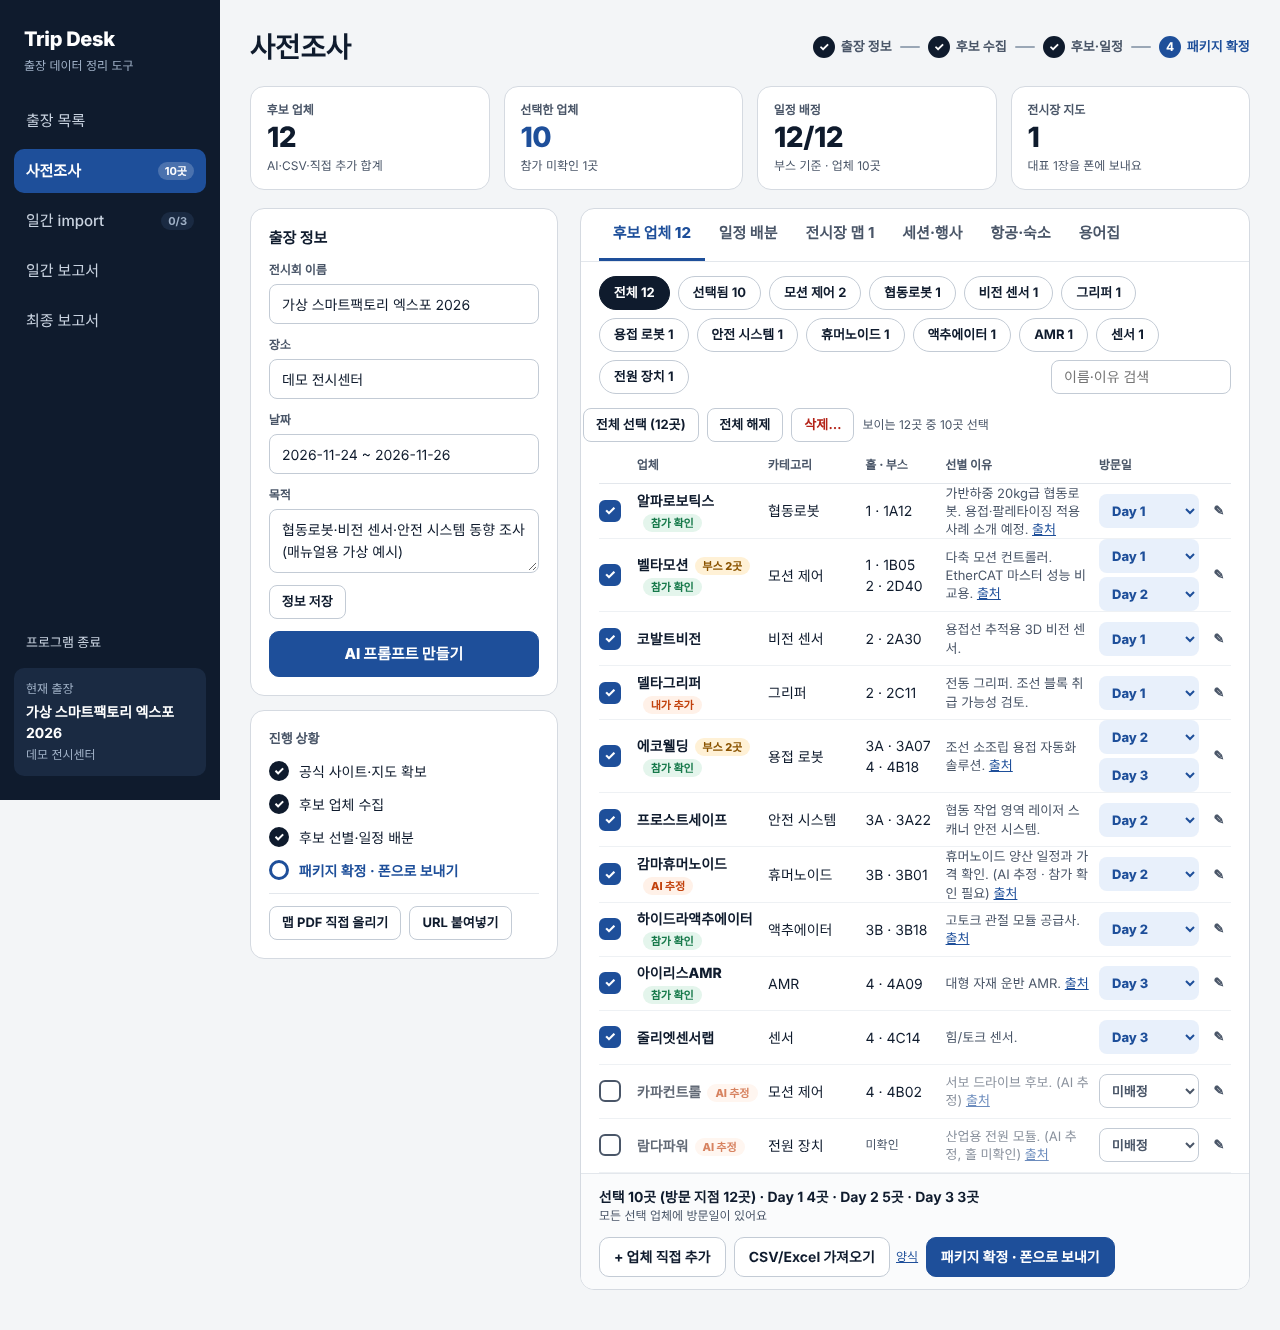
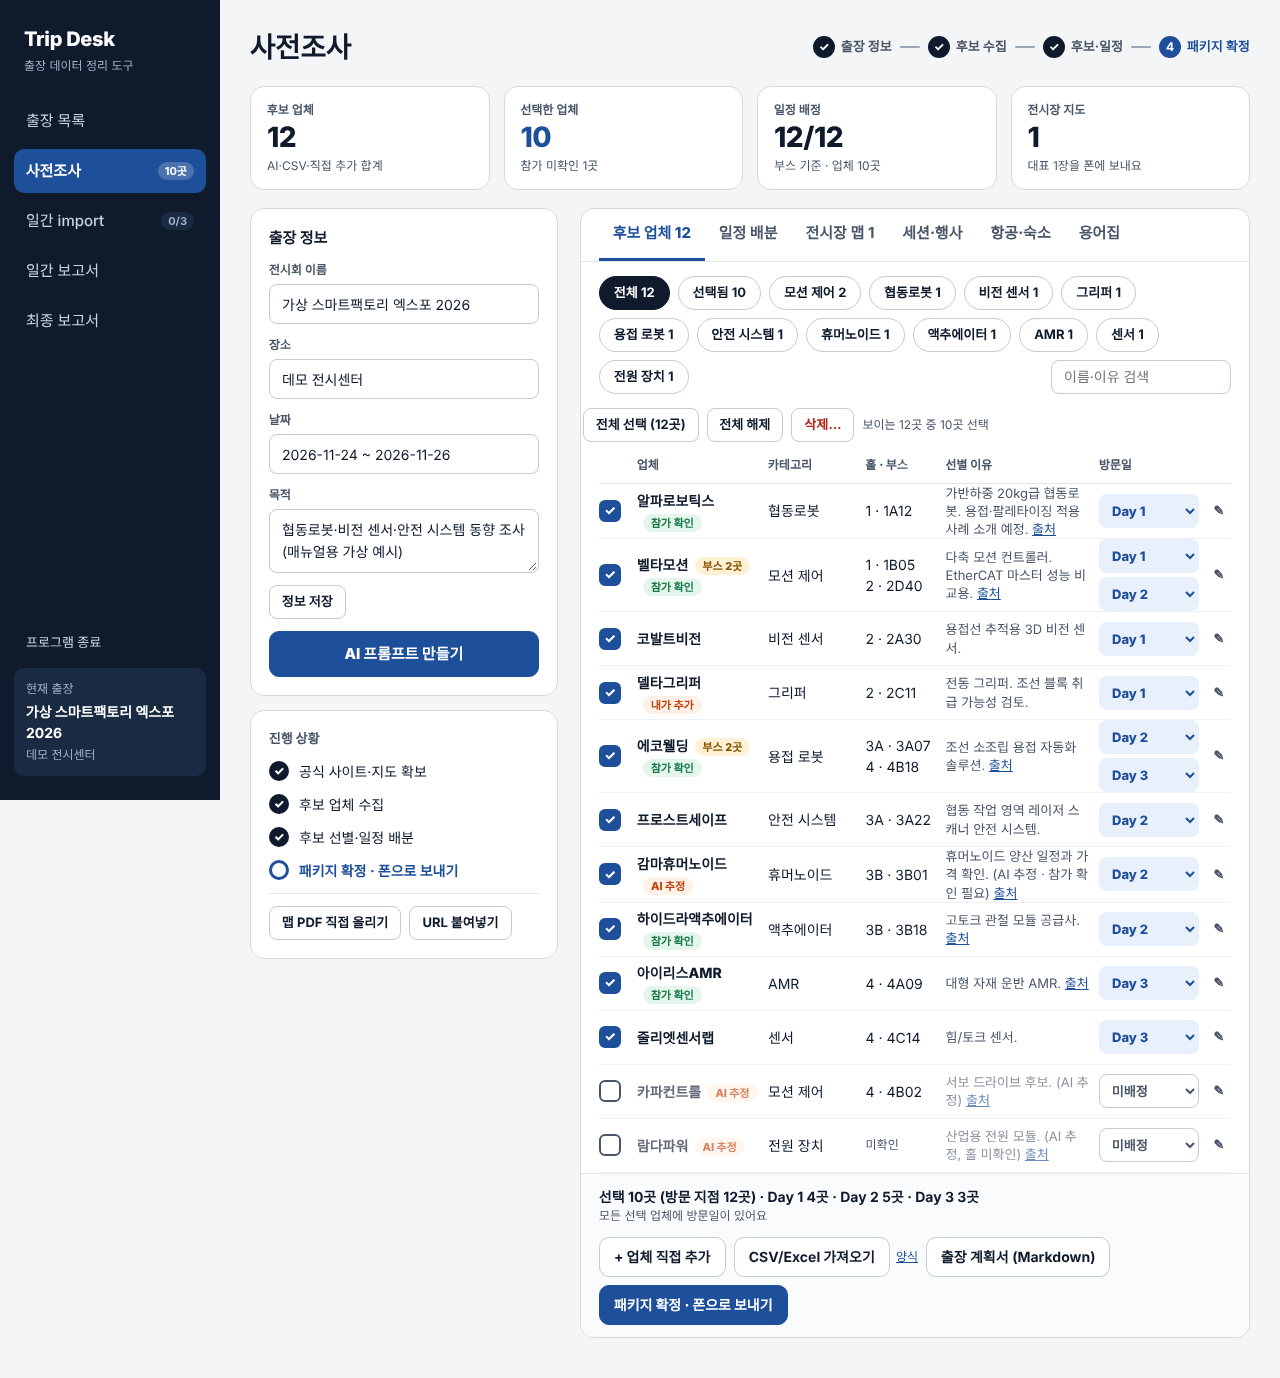
출장 계획서(Markdown→PDF 1~2쪽), 자동 배분은 고르게·몰리면 2·3일차로, md2pdf.sh, 매뉴얼 갱신
Claude-Session: https://claude.ai/code/session_01QquWuwNK276MS5WpECriYo

diff --git a/desk/tripdesk/web/prep.js b/desk/tripdesk/web/prep.js
@@ -184,6 +184,7 @@ function candsTab(s) {
         h("div", { class: "sub" }, s.stops - s.dated ? `일정 미배정 ${s.stops - s.dated}곳 · '일정 배분' 탭에서 한 번에 나눌 수 있어요` : "모든 선택 업체에 방문일이 있어요")),
       h("div", { class: "row" },
         h("button", { class: "btn", onclick: () => openCompanyEditor(null) }, "+ 업체 직접 추가"), csvButton(),
+        h("button", { class: "btn", onclick: openPlanReport }, "출장 계획서 (Markdown)"),
         h("button", { class: "btn primary", onclick: confirmPackage }, "패키지 확정 · 폰으로 보내기"))));
 }
 
@@ -227,28 +228,33 @@ function planTab(s) {
   return h("div", { style: "display:flex;flex-direction:column" },
     h("div", { class: "pad", style: "padding-bottom:0" }, h("div", { class: "row" },
       h("button", { class: "btn primary sm", onclick: autoAssign }, "홀 기준으로 자동 배분"),
-      h("span", { class: "sub" }, `아직 일차가 없는 곳만 같은 홀끼리 묶어 나눠요(첫날은 둘러볼 시간을 위해 조금 가볍게). 이미 정한 일정은 그대로 둬요.${stops.length > picked.length ? ` 선택 업체 ${picked.length}곳 중 부스가 여럿인 업체가 있어 방문 지점은 ${stops.length}곳이에요(⚠ 표시).` : ""}`))),
+      h("span", { class: "sub" }, `아직 일차가 없는 곳만 같은 홀끼리 묶어 날짜별로 고르게 나눠요. 한 날에 몰리면 2·3일차 쪽으로 가요(첫날은 둘러볼 시간). 이미 정한 일정은 그대로 둬요.${stops.length > picked.length ? ` 선택 업체 ${picked.length}곳 중 부스가 여럿인 업체가 있어 방문 지점은 ${stops.length}곳이에요(⚠ 표시).` : ""}`))),
     h("div", { class: "board" }, col("미배정", stops.filter((x) => !x.b.day)), ...days.map((d, i) => col(`Day ${i + 1} · ${d.slice(5)}`, stops.filter((x) => x.b.day === i + 1)))));
 }
 
 function autoAssign() {
   const n = P.v.trip.days.length;
   const all = P.v.companies.filter((c) => c.picked !== false).flatMap((c) => bs(c).map((b, i) => ({ c, b, i })));
-  const todo = all.filter((x) => !x.b.day).sort((a, b) => (a.b.hall || "~").localeCompare(b.b.hall || "~") || (a.b.booth || "").localeCompare(b.b.booth || "", undefined, { numeric: true }));
+  const todo = all.filter((x) => !x.b.day);
   if (!todo.length) return toast("나눌 업체가 없어요.");
   const load = P.v.trip.days.map((_, i) => all.filter((x) => x.b.day === i + 1).length);
   const total = load.reduce((a, b) => a + b, 0) + todo.length;
-  // 같은 조건이면 첫날을 가볍게(전체를 둘러볼 시간): 첫날 몫은 다른 날의 약 60%. 이미 정해 둔 일정은 그대로 두고 그 위에 채운다.
-  const w = P.v.trip.days.map((_, i) => (i === 0 && n > 1 ? 0.6 : 1));
-  const W = w.reduce((a, b) => a + b, 0);
-  const cap = w.map((x) => Math.max(1, Math.round((total * x) / W)));
+  const cap = Math.ceil(total / n);
+  // 같은 홀끼리 묶어 두되(한 번에 둘러보기), 한 홀이 너무 크면 나눈다.
+  const byHall = new Map();
+  todo.forEach((x) => { const k = x.b.hall || "?"; byHall.set(k, [...(byHall.get(k) || []), x]); });
+  const groups = [];
+  for (const list of byHall.values()) {
+    list.sort((a, b) => (a.b.booth || "").localeCompare(b.b.booth || "", undefined, { numeric: true }));
+    for (let i = 0; i < list.length; i += cap) groups.push(list.slice(i, i + cap));
+  }
+  // 큰 묶음부터 가장 한가한 날에 넣는다. 같은 수면 뒤쪽 날을 고른다 → 한 날에 몰려도 그날은 2·3일차가 되고 첫날은 가벼워진다.
   const assign = new Map();
-  let d = 0;
-  todo.forEach((x, k) => {
-    const prev = todo[k - 1];
-    while (d < n - 1 && load[d] >= cap[d] && !(prev && prev.b.hall === x.b.hall && x.b.hall && load[d] < cap[d] + 2)) d++;
-    assign.set(`${x.c.id}#${x.i}`, d + 1);
-    load[d]++;
+  groups.sort((a, b) => b.length - a.length).forEach((g) => {
+    let d = 0;
+    for (let k = 1; k < n; k++) if (load[k] <= load[d]) d = k;
+    g.forEach((x) => assign.set(`${x.c.id}#${x.i}`, d + 1));
+    load[d] += g.length;
   });
   guard(() => saveCompanies(P.v.companies.map((c) => ({ ...c, booths: bs(c).map((b, i) => (assign.has(`${c.id}#${i}`) ? { ...b, day: assign.get(`${c.id}#${i}`) } : b)) }))));
   toast(`${todo.length}곳을 나눴어요. 필요하면 ◀ ▶ 로 옮기세요.`);
@@ -301,6 +307,25 @@ function glossTab() {
     h("div", { class: "msg" }, "여기 적은 용어는 ① 폰의 번역 힌트, ② 녹음 전사·AI 교정에서 '이렇게 적어 달라'는 기준으로 쓰여요. 회사명, 제품명, 약어를 넣어 두세요."),
     ta, h("div", { class: "row" }, h("button", { class: "btn primary", onclick: () => guard(async () => { P.v = await api("PUT", `/trips/${P.tid}/glossary`, ta.value.split("\n")); redraw(); toast("저장했어요."); }) }, "저장"),
       h("span", { class: "sub" }, `${P.v.glossary.length}개`)));
+}
+
+// ---------------- 출장 계획서 (Markdown → PDF 1~2쪽) ----------------
+function openPlanReport() {
+  guard(async () => {
+    const V = await api("GET", `/trips/${P.tid}/plan`);
+    modal("출장 계획서", (m, close) => {
+      const goals = h("textarea", { style: "min-height:90px", placeholder: "한 줄에 하나" }, (V.goals.length ? V.goals : V.defaults.goals).join("\n"));
+      const exp = h("textarea", { style: "min-height:90px", placeholder: "한 줄에 하나" }, (V.expected.length ? V.expected : V.defaults.expected).join("\n"));
+      const lines = (t) => t.value.split("\n").map((x) => x.trim()).filter(Boolean);
+      const save = () => api("PUT", `/trips/${P.tid}/plan`, { goals: lines(goals), expected: lines(exp) });
+      m.append(h("div", { class: "msg" }, "출장 정보(행사·장소·기간·항공·숙소)와 방문 후보 업체(선별 사유 포함)는 자동으로 채워져요. 목표와 예상 결과만 확인·수정하세요. 처음 보이는 문장은 출장 목적과 선택한 업체로 만든 초안이에요."),
+        h("div", { class: "field" }, h("label", {}, "출장 목표 (한 줄에 하나)"), goals), h("div", { class: "field" }, h("label", {}, "예상 결과 (한 줄에 하나)"), exp),
+        h("div", { class: "sub" }, "내려받은 .md 를 PDF 로 바꾸려면: docs/manual/md2pdf.sh 파일.md (1~2쪽 A4 서식). 또는 VS Code 의 Markdown PDF 확장, 브라우저 인쇄도 돼요."),
+        h("div", { class: "row", style: "justify-content:flex-end" },
+          h("button", { class: "btn", onclick: () => guard(async () => { await save(); toast("저장했어요."); }) }, "저장"),
+          h("button", { class: "btn primary", onclick: () => guard(async () => { await save(); download(`/trips/${P.tid}/plan.md`); }) }, "저장하고 Markdown 내려받기")));
+    });
+  });
 }
 
 // ---------------- 업체 편집/추가 ----------------

diff --git a/docs/manual/plan-pdf.css b/docs/manual/plan-pdf.css
@@ -1,0 +1,12 @@
+@page { size: A4; margin: 13mm 13mm; }
+body { font-family: "Noto Sans CJK KR","Noto Sans CJK JP","NanumGothic",sans-serif; font-size: 10pt; line-height: 1.5; max-width: none; margin: 0; }
+h1 { font-size: 17pt; margin: 0 0 2px; border-bottom: 3px solid #1f4e9c; padding-bottom: 4px; }
+h2 { font-size: 12pt; margin: 14px 0 6px; color: #1f4e9c; break-after: avoid; }
+p { margin: 3px 0; }
+ul { margin: 2px 0 4px; padding-left: 18px; }
+table { border-collapse: collapse; width: 100%; font-size: 9pt; }
+th { background: #eef2f8; }
+td, th { border: 1px solid #c9d1dc; padding: 3px 6px; vertical-align: top; text-align: left; }
+tr { break-inside: avoid; }
+thead { display: table-header-group; }
+em { color: #555; font-size: 8.5pt; }

diff --git a/desk/tripdesk/planreport.py b/desk/tripdesk/planreport.py
@@ -1,0 +1,114 @@
+"""출장 계획서(사전 보고서): 출장 정보 · 목표 및 예상 결과 · 방문 후보 업체(선별 사유 포함)를 Markdown 으로 만든다.
+1~2쪽 PDF 로 바꿔 쓰는 것을 전제로 짧게 만든다(docs/manual/md2pdf.sh)."""
+from datetime import date
+
+from . import booths, travel
+from .store import Store
+
+WD = "월화수목금토일"
+
+
+def _lines(v) -> list[str]:
+    if isinstance(v, str):
+        v = v.splitlines()
+    return [str(x).strip(" -•\t") for x in (v or []) if str(x).strip(" -•\t")][:12]
+
+
+def load(store: Store, tid: str) -> dict:
+    d = store._read(store._dir(tid) / "plan.json", {})
+    return {"goals": _lines(d.get("goals")), "expected": _lines(d.get("expected"))}
+
+
+def save(store: Store, tid: str, data: dict) -> dict:
+    cur = load(store, tid)
+    for k in ("goals", "expected"):
+        if k in data:
+            cur[k] = _lines(data[k])
+    store._write(store._dir(tid) / "plan.json", cur)
+    return cur
+
+
+def _picked(store: Store, tid: str) -> list[dict]:
+    return [c for c in store.get_companies(tid) if c.get("picked") is not False]
+
+
+def defaults(store: Store, tid: str) -> dict:
+    """저장된 값이 없을 때 보여 줄 초안. 출장 목적에서 목표를, 선택한 업체에서 예상 결과를 만든다(수정해서 저장하면 그 내용이 쓰인다)."""
+    trip = store.get_trip(tid)
+    cs = _picked(store, tid)
+    cats: dict[str, int] = {}
+    for c in cs:
+        cats[c.get("category") or "기타"] = cats.get(c.get("category") or "기타", 0) + 1
+    top = ", ".join(k for k, _ in sorted(cats.items(), key=lambda x: -x[1])[:3])
+    goals = _lines(trip.get("purpose") or "") or ["(출장 목표를 적어 주세요)"]
+    expected = []
+    if cs:
+        expected.append(f"{top} 분야 {len(cs)}개 업체의 제품·기술 현황과 적용 사례 파악" if top else f"{len(cs)}개 업체의 제품·기술 현황 파악")
+    expected += ["업체별 확인 질문에 대한 답변과 담당자 연락처 확보", "출장 종료 후 최종 보고서(PPT)로 정리해 공유"]
+    return {"goals": goals, "expected": expected}
+
+
+def view(store: Store, tid: str) -> dict:
+    cur, dft = load(store, tid), defaults(store, tid)
+    return {"goals": cur["goals"], "expected": cur["expected"], "defaults": dft, "saved": bool(cur["goals"] or cur["expected"])}
+
+
+def _cell(s: str) -> str:
+    return str(s or "").replace("|", "/").replace("\n", " ").strip()
+
+
+def _fmt_day(d: str) -> str:
+    try:
+        y = date.fromisoformat(d)
+        return f"{y.month}/{y.day}({WD[y.weekday()]})"
+    except ValueError:
+        return d
+
+
+def build_markdown(store: Store, tid: str) -> str:
+    trip = store.get_trip(tid)
+    cur, dft = load(store, tid), defaults(store, tid)
+    goals, expected = cur["goals"] or dft["goals"], cur["expected"] or dft["expected"]
+    days = trip.get("days") or []
+    cs = _picked(store, tid)
+    stops_n = sum(len(booths.stops(c)) for c in cs)
+    L = [f"# {trip['name']} 출장 계획서", "", f"작성일 {date.today().isoformat()}", "", "## 1. 출장 정보", "", "| 항목 | 내용 |", "|---|---|",
+         f"| 행사 | {_cell(trip['name'])} |", f"| 장소 | {_cell(trip.get('venue')) or '-'} |"]
+    if days:
+        L.append(f"| 기간 | {days[0]} ~ {days[-1]} ({len(days)}일) |")
+    if trip.get("siteUrl"):
+        L.append(f"| 공식 사이트 | {_cell(trip['siteUrl'])} |")
+    tr = travel.get(store, tid)
+    for f in tr["flights"]:
+        d = travel.decorate(f)
+        segs = f["segments"]
+        t0 = segs[0]["depart"].replace("T", " ")
+        via = f" (경유 {len(segs) - 1}회)" if len(segs) > 1 else ""
+        L.append(f"| {'가는 편' if f['direction'] == 'outbound' else '오는 편' if f['direction'] == 'return' else '항공'} | {' → '.join(d['route'])}{via} · {t0} 출발 |")
+    for x in tr["hotels"]:
+        L.append(f"| 숙소 | {_cell(x['name'])}{' ' + str(x['stars']) + '성' if x.get('stars') else ''} · {x['checkIn']} ~ {x['checkOut']} |")
+    L += ["", "## 2. 출장 목표 및 예상 결과", "", "**목표**", ""] + [f"- {g}" for g in goals] + ["", "**예상 결과**", ""] + [f"- {e}" for e in expected]
+    L += ["", f"## 3. 방문 후보 업체 ({len(cs)}곳" + (f", 방문 지점 {stops_n}곳" if stops_n > len(cs) else "") + ")", ""]
+    if not cs:
+        L.append("선택한 업체가 아직 없어요.")
+        return "\n".join(L) + "\n"
+    L += ["| 방문일 | 업체 | 분류 | 홀 · 부스 | 선별 사유 |", "|---|---|---|---|---|"]
+
+    def key(c):
+        ds = [b["day"] or 99 for b in c["booths"]]
+        return (min(ds), c["booths"][0]["hall"], c["name"])
+
+    for c in sorted(cs, key=key):
+        bl = c["booths"]
+        day = "<br>".join(f"D{b['day']} {_fmt_day(days[b['day'] - 1])}" if b["day"] and b["day"] <= len(days) else "미정" for b in bl)
+        loc = "<br>".join(" · ".join(x for x in (b["hall"], b["booth"]) if x) or "미확인" for b in bl)
+        why = _cell(c.get("reason") or (c.get("preNotes") or "").split("\n")[0])[:170]
+        mark = " ✓" if c.get("source") == "ai" and c.get("verified") else ""
+        L.append(f"| {day} | **{_cell(c['name'])}**{mark} | {_cell(c.get('category') or '기타')} | {loc} | {why} |")
+    ai = [c for c in cs if c.get("source") == "ai"]
+    notes = ["부스가 여러 곳인 업체는 한 줄에 부스를 나란히 적었고, 방문일은 부스별로 정했습니다."] if stops_n > len(cs) else []
+    if ai:
+        notes.append("✓ = 공식 사이트에서 이번 전시회 참가를 확인한 업체")
+    if notes:
+        L += [""] + [f"*{n}*" for n in notes]
+    return "\n".join(L) + "\n"

diff --git a/desk/tests/test_core.py b/desk/tests/test_core.py
@@ -271,3 +271,19 @@ def test_multi_booth_company_one_checkbox_many_stops(store):
     rows = companies_io.merge_companies(store.get_companies(tid), [{"name": "codewerk gmbh", "category": "x", "booths": [{"hall": "6", "booth": "6-350G", "day": 2}, {"hall": "7", "booth": "7-1", "day": None}]}])
     cw = rows[0][0]
     assert len(cw["booths"]) == 3 and cw["booths"][1]["day"] == 2 and cw["id"] == cs[0]["id"]
+
+
+def test_plan_report_markdown(store):
+    from tripdesk import planreport
+    t = store.create_trip("계획 엑스포", "데모센터", "2026-11-24", "2026-11-26", "휴머노이드 동향 조사\n용접 자동화 확인")
+    tid = t["id"]
+    store.set_companies(tid, [
+        {"id": "c-1", "name": "Codewerk GmbH", "category": "AI.소프트웨어", "booths": [{"hall": "5", "booth": "5-210", "day": 1}, {"hall": "6", "booth": "6-350G", "day": 3}],
+         "picked": True, "source": "ai", "verified": True, "reason": "[키워드] 비전 소프트웨어"},
+        {"id": "c-2", "name": "후보만", "category": "x", "picked": False}])
+    md = planreport.build_markdown(store, tid)
+    assert "## 1. 출장 정보" in md and "## 2. 출장 목표 및 예상 결과" in md and "## 3. 방문 후보 업체 (1곳, 방문 지점 2곳)" in md
+    assert "- 휴머노이드 동향 조사" in md and "5 · 5-210<br>6 · 6-350G" in md and "[키워드] 비전 소프트웨어" in md and "후보만" not in md
+    planreport.save(store, tid, {"goals": "A\nB", "expected": ["C"]})
+    md = planreport.build_markdown(store, tid)
+    assert "- A" in md and "- C" in md and "휴머노이드 동향 조사" not in md

diff --git a/desk/tripdesk/server.py b/desk/tripdesk/server.py
@@ -12,7 +12,7 @@ import urllib.parse
 from http.server import BaseHTTPRequestHandler, ThreadingHTTPServer
 from pathlib import Path
 
-from . import booths, cloud, companies_io, daily, dayai, mapfinder, package, pptdata, sessions, reports, research, transcribe, travel
+from . import booths, cloud, planreport, companies_io, daily, dayai, mapfinder, package, pptdata, sessions, reports, research, transcribe, travel
 from .store import Store, StoreError
 
 WEB = Path(__file__).parent / "web"
@@ -455,6 +455,20 @@ class Api:
             st["points"][cid] = [str(p).strip() for p in pts if str(p).strip()]
         daily.save_state(self.store, tid, n, st)
         return {"report": reports.build_day(self.store, tid, n)}
+
+    @route("GET", r"/api/trips/(?P<tid>[^/]+)/plan")
+    def get_plan(self, m, q, body):
+        return planreport.view(self.store, m["tid"])
+
+    @route("PUT", r"/api/trips/(?P<tid>[^/]+)/plan")
+    def put_plan(self, m, q, body):
+        planreport.save(self.store, m["tid"], jbody(body))
+        return planreport.view(self.store, m["tid"])
+
+    @route("GET", r"/api/trips/(?P<tid>[^/]+)/plan\.md")
+    def plan_md(self, m, q, body):
+        trip = self.store.get_trip(m["tid"])
+        return ("bytes", planreport.build_markdown(self.store, m["tid"]).encode("utf-8"), "text/markdown; charset=utf-8", f"{trip['name']}_출장계획서.md")
 
     @route("GET", r"/api/trips/(?P<tid>[^/]+)/days/(?P<n>\d+)/report\.md")
     def day_md(self, m, q, body):

diff --git a/docs/manual/make_desk_shots.py b/docs/manual/make_desk_shots.py
@@ -119,6 +119,15 @@ def main():
         pg.locator("text=용어집").first.click(); pg.wait_for_timeout(500)
         shot("desk-17-glossary")
 
+        # 출장 계획서(Markdown → PDF)
+        call("PUT", f"/trips/{tid}/plan", dict(goals=["협동로봇·비전 센서·안전 시스템 최신 동향 파악", "조선 용접·운반 공정 적용 가능 업체 후보 압축"],
+                                              expected=["카테고리별 유력 업체 3~5곳 선정과 담당자 연락처 확보", "업체별 확인 질문 답변을 정리해 최종 보고서(PPT)로 공유"]))
+        go(f"prep/{tid}"); pg.wait_for_timeout(500)
+        pg.get_by_role("button", name="출장 계획서 (Markdown)").click(); pg.wait_for_timeout(500)
+        shot("desk-36-plan-report", clip_modal=True)
+        pg.locator(".modalbg").evaluate("e=>e.remove()")
+        (pathlib.Path(__file__).parent / "sample_plan_report.md").write_bytes(call("GET", f"/trips/{tid}/plan.md"))
+
 
         # 세션·행사
         call("PUT", f"/trips/{tid}/sessions", D.SESSIONS)

diff --git a/docs/manual/sample_plan_report.md b/docs/manual/sample_plan_report.md
@@ -1,0 +1,44 @@
+# 가상 스마트팩토리 엑스포 2026 출장 계획서
+
+작성일 2026-11-05
+
+## 1. 출장 정보
+
+| 항목 | 내용 |
+|---|---|
+| 행사 | 가상 스마트팩토리 엑스포 2026 |
+| 장소 | 데모 전시센터 |
+| 기간 | 2026-11-24 ~ 2026-11-26 (3일) |
+| 가는 편 | ICN → IST → FRA (경유 1회) · 2026-11-22 23:40 출발 |
+| 오는 편 | FRA → VIE → IST → ICN (경유 2회) · 2026-11-26 13:20 출발 |
+| 숙소 | 그랜드 데모 호텔 4성 · 2026-11-23 ~ 2026-11-26 |
+
+## 2. 출장 목표 및 예상 결과
+
+**목표**
+
+- 협동로봇·비전 센서·안전 시스템 최신 동향 파악
+- 조선 용접·운반 공정 적용 가능 업체 후보 압축
+
+**예상 결과**
+
+- 카테고리별 유력 업체 3~5곳 선정과 담당자 연락처 확보
+- 업체별 확인 질문 답변을 정리해 최종 보고서(PPT)로 공유
+
+## 3. 방문 후보 업체 (10곳, 방문 지점 12곳)
+
+| 방문일 | 업체 | 분류 | 홀 · 부스 | 선별 사유 |
+|---|---|---|---|---|
+| D1 11/24(화)<br>D2 11/25(수) | **벨타모션** ✓ | 모션 제어 | 1 · 1B05<br>2 · 2D40 | 다축 모션 컨트롤러. EtherCAT 마스터 성능 비교용. |
+| D1 11/24(화) | **알파로보틱스** ✓ | 협동로봇 | 1 · 1A12 | 가반하중 20kg급 협동로봇. 용접·팔레타이징 적용 사례 소개 예정. |
+| D1 11/24(화) | **델타그리퍼** | 그리퍼 | 2 · 2C11 | 전동 그리퍼. 조선 블록 취급 가능성 검토. |
+| D1 11/24(화) | **코발트비전** | 비전 센서 | 2 · 2A30 | 용접선 추적용 3D 비전 센서. |
+| D2 11/25(수)<br>D3 11/26(목) | **에코웰딩** ✓ | 용접 로봇 | 3A · 3A07<br>4 · 4B18 | 조선 소조립 용접 자동화 솔루션. |
+| D2 11/25(수) | **프로스트세이프** | 안전 시스템 | 3A · 3A22 | 협동 작업 영역 레이저 스캐너 안전 시스템. |
+| D2 11/25(수) | **감마휴머노이드** | 휴머노이드 | 3B · 3B01 | 휴머노이드 양산 일정과 가격 확인. (AI 추정 · 참가 확인 필요) |
+| D2 11/25(수) | **하이드라액추에이터** ✓ | 액추에이터 | 3B · 3B18 | 고토크 관절 모듈 공급사. |
+| D3 11/26(목) | **아이리스AMR** ✓ | AMR | 4 · 4A09 | 대형 자재 운반 AMR. |
+| D3 11/26(목) | **줄리엣센서랩** | 센서 | 4 · 4C14 | 힘/토크 센서. |
+
+*부스가 여러 곳인 업체는 한 줄에 부스를 나란히 적었고, 방문일은 부스별로 정했습니다.*
+*✓ = 공식 사이트에서 이번 전시회 참가를 확인한 업체*
